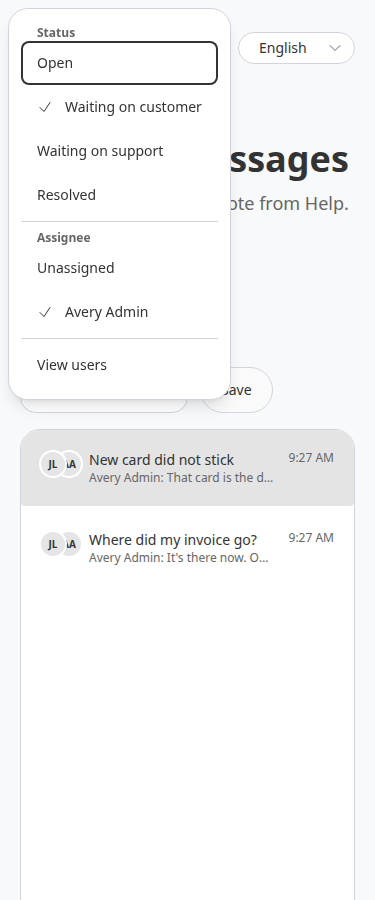
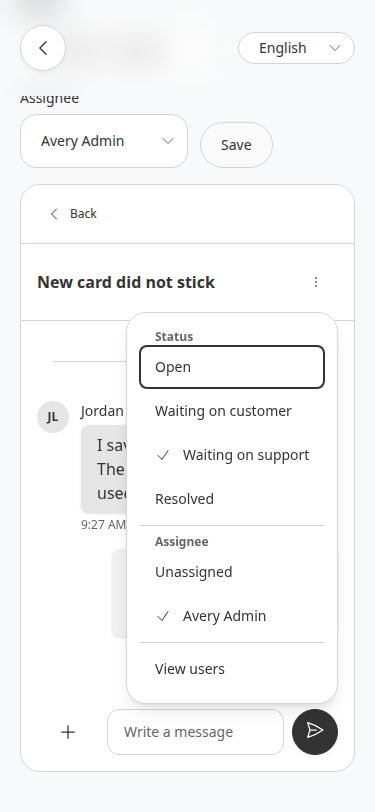
Reshoot the 375 actions menu with the kebab in view.
The earlier still opened the menu while the stacked chat panel was hidden, so the menu sat at the top of the page. These shots open the panel first.

diff --git a/docs/demo/pr85/MANIFEST.md b/docs/demo/pr85/MANIFEST.md
@@ -11,6 +11,8 @@ The title measured is "New card did not stick" (scroll width 178px).
 | 700 | 46px | About 6 characters (`Ne…`) |
 | 640 | 0px | The split header title is squeezed out. The three desktop controls are still the ones on screen, because the chat swap starts below 640. |
 
+At 375 the chat panel starts hidden (`display: none`) until the list opens it. The 375 menu shots open that panel, then scroll. Measured with `getBoundingClientRect` while Waiting on support was checked: kebab top 260, right 338, bottom 304, left 294 (44×44); menu top 312, right 338.4, bottom 704, left 126 (212.4×392). The menu is 8px under the kebab and the right edges match. `window.innerWidth` was 375 and `devicePixelRatio` was 1.
+
 | File | Caption |
 |---|---|
 | `staff-1440-status-open.png` | Status menu open. Waiting on support is checked. |
@@ -25,4 +27,6 @@ The title measured is "New card did not stick" (scroll width 178px).
 | `staff-users-modal.png` | Jordan Lee is Requester. Avery Admin is Support staff. |
 | `requester-users-modal.png` | Same roles on the signed-in conversation. |
 | `requester-desktop.png` | People button only. |
-| `staff-mobile-375-menu.png` | Actions menu at 375 with Status and Assignee labels, and checks, and no scrollbar. |
+| `staff-mobile-375-menu.png` | Actions menu at a true 375×812 viewport, `devicePixelRatio` 1. The conversation panel is open and the page is scrolled so the kebab is on screen. The menu sits 8px under the kebab, right edges aligned, and it does not cover the chat title. Check is on Waiting on support. |
+| `staff-mobile-375-menu-customer.png` | Same 375 framing after the status is Waiting on customer. The check moves with the status. |
+| `staff-mobile-375-menu-page.png` | Full page of the Waiting on support menu, so the kebab, the title, and the menu are in one frame. |
